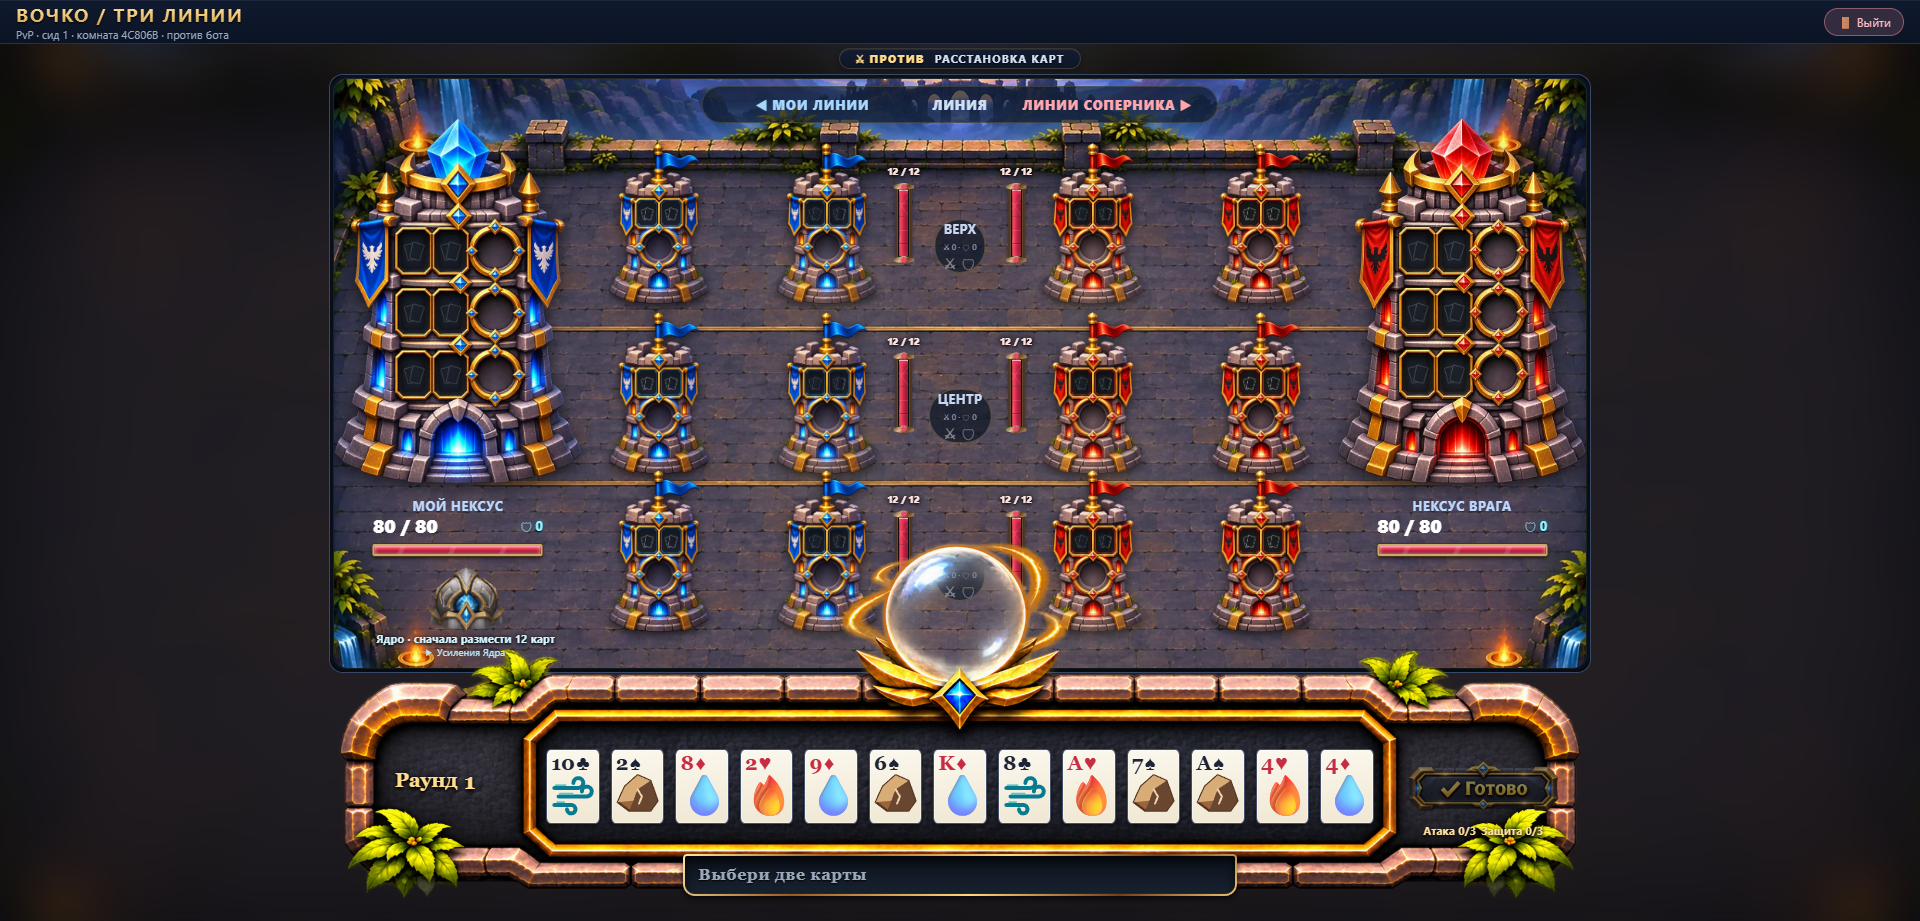
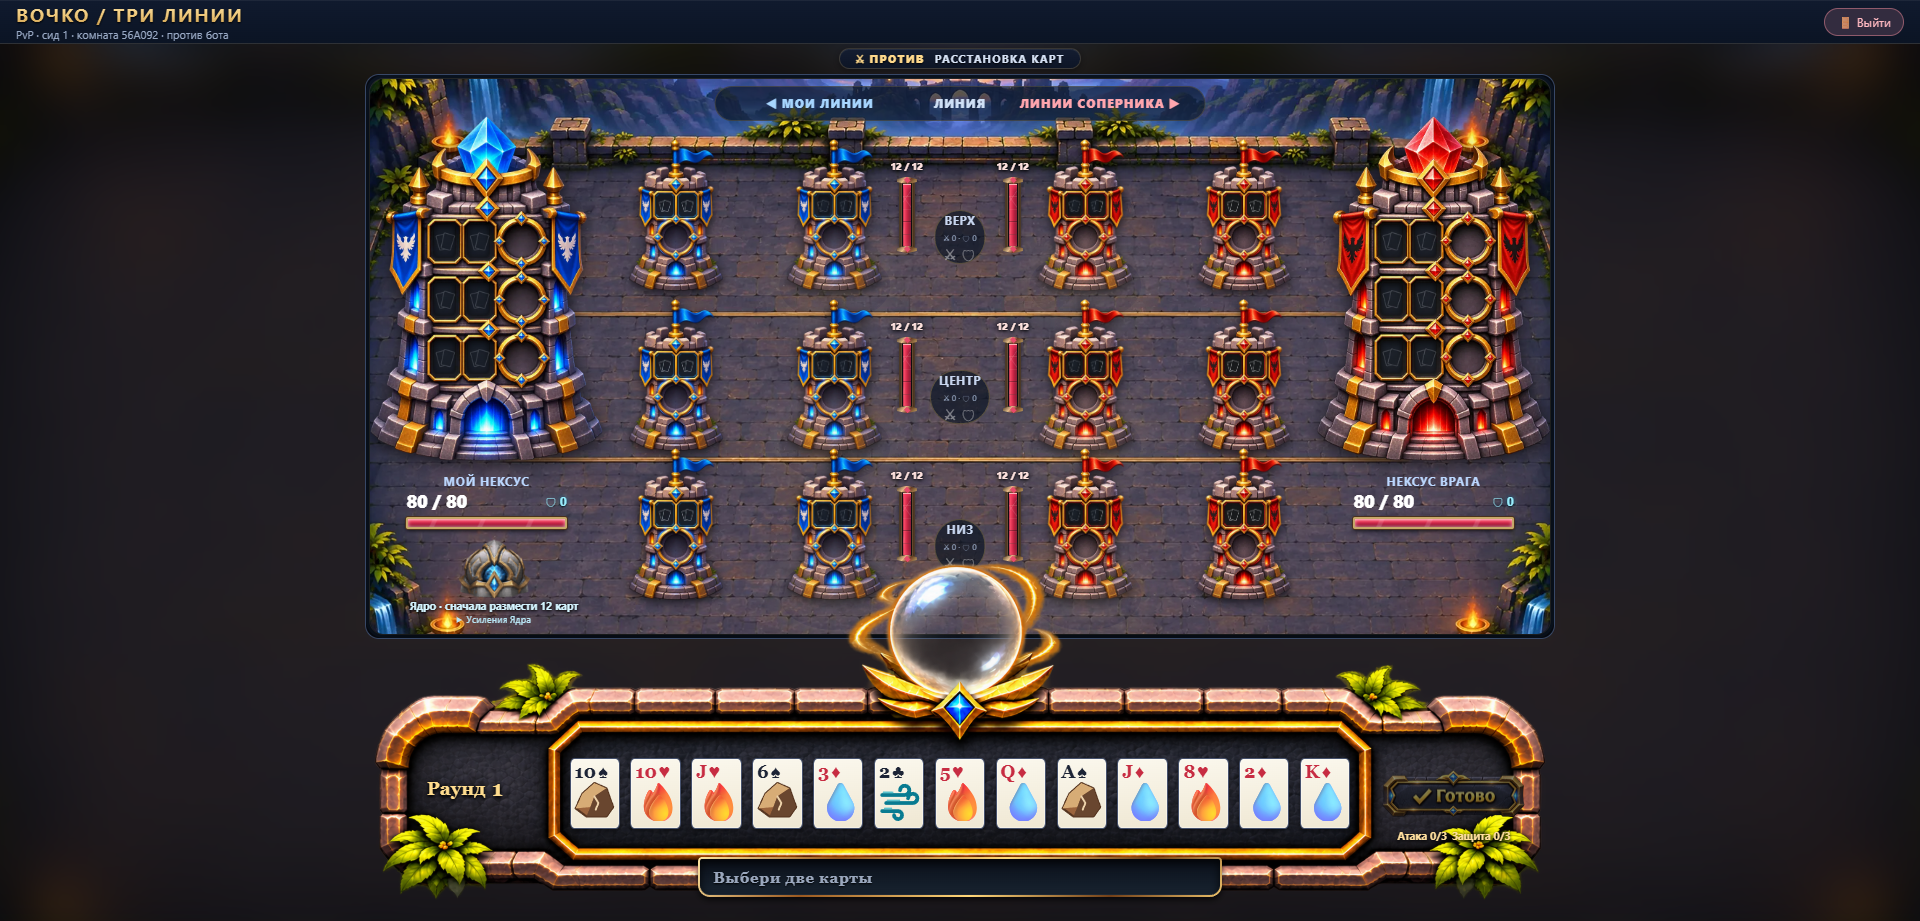
fix(ui): reduce panel overlap -14% -> -10% so the sphere stops covering the bottom lane
After the cinematic crop the panel art overlapped ~22% of the arena height
and the preview sphere covered the bottom lane badge/meters. Overlap now
10% of game width (sphere crowns the edge, badge at 84% height stays clear);
game width formula .668333 -> .708333. npm test 374/374, test:local,
test:browser, browser-nexus-core green.

diff --git a/src/ui/card-panel/card-panel.css b/src/ui/card-panel/card-panel.css
@@ -3,7 +3,7 @@
 .arena-and-hand > #lanes{width:100%;height:auto;aspect-ratio:1600/760;flex:none;container-type:inline-size}
 .arena-and-hand .arena-scene{width:100%;height:auto;aspect-ratio:1600/760}
 
-.card-panel{position:relative;isolation:isolate;z-index:10;flex:none;width:100%;aspect-ratio:2172/724;container-type:inline-size;margin-top:calc(-14cqw - 5px);pointer-events:none}
+.card-panel{position:relative;isolation:isolate;z-index:10;flex:none;width:100%;aspect-ratio:2172/724;container-type:inline-size;margin-top:calc(-10cqw - 5px);pointer-events:none}
 /* Исходный PNG имеет прозрачную сферу: эффект светится сквозь стекло. */
 .panel-art{position:absolute;inset:0;z-index:2;width:100%;height:100%;pointer-events:none;user-select:none}
 .panel-zone{position:absolute;left:var(--zone-x);top:var(--zone-y);width:var(--zone-w);height:var(--zone-h);z-index:3}
@@ -90,13 +90,13 @@
 .match-screen>header{flex:0 0 44px}
 .match-screen>.wrap{flex:1;width:100%;max-width:none;height:auto;min-height:0;margin:0;padding:4px 6px;overflow:hidden}
 .match-screen .score{flex:none}
-.match-screen .arena-and-hand{--game-width:min(100cqw,calc(100cqh / .668333));container-type:size;flex:1;min-height:0;max-width:none;justify-content:center}
+.match-screen .arena-and-hand{--game-width:min(100cqw,calc(100cqh / .708333));container-type:size;flex:1;min-height:0;max-width:none;justify-content:center}
 .match-screen .arena-and-hand>#lanes,.match-screen .arena-and-hand>.card-panel{width:var(--game-width)}
-.match-screen .card-panel{margin-top:calc(var(--game-width) * -.14 - 5px)}
+.match-screen .card-panel{margin-top:calc(var(--game-width) * -.1 - 5px)}
 .panel-message{position:absolute;z-index:20;left:20%;bottom:100%;width:60%;padding:6px 10px;border:1px solid #ac8a4e;border-radius:8px;background:#101927ed;color:#ffe1a2;text-align:center;font-size:12px;line-height:1.4;pointer-events:none}
 .panel-message:empty{display:none}
 @media(max-width:640px){
- .match-screen .arena-and-hand{--game-width:min(100cqw,calc((100cqh - 48px) / .668333))}
+ .match-screen .arena-and-hand{--game-width:min(100cqw,calc((100cqh - 48px) / .708333))}
  .match-screen>header{flex-basis:36px}
  .panel-message{left:8%;width:84%;font-size:11px}
 }

diff --git a/src/ui/nexus-core/nexus-core.css b/src/ui/nexus-core/nexus-core.css
@@ -16,5 +16,5 @@
 .arena-scene .core-eligible{filter:drop-shadow(0 0 4px var(--core-color))}
 .core-battle-badge,.core-own-badge{white-space:nowrap;color:#c6f2ff;font-size:clamp(8px,.9cqw,14px);font-weight:700;text-shadow:0 1px 3px #000;margin-top:3px;z-index:10}
 @keyframes core-wait{50%{opacity:.4;box-shadow:0 0 13px #57cfff88}}@keyframes core-absorb{0%{opacity:1;translate:0 35px;scale:1}80%{opacity:1}100%{opacity:0;translate:0 -5px;scale:.05}}@keyframes core-flash{35%{filter:drop-shadow(0 0 13px var(--core-color)) brightness(1.6)}}
-@media(max-width:560px){.core-console{position:relative;left:auto;bottom:auto;width:180px;height:110px;flex:none;gap:2px;justify-content:center}.core-drop{height:70px;min-height:44px;flex:none}.core-state{font-size:11px}.core-details{font-size:11px}.core-preview{font-size:12px;padding:9px}.match-screen .arena-and-hand:has(>.core-console){--game-width:min(100cqw,calc((100cqh - 163px) / .668333))}}
+@media(max-width:560px){.core-console{position:relative;left:auto;bottom:auto;width:180px;height:110px;flex:none;gap:2px;justify-content:center}.core-drop{height:70px;min-height:44px;flex:none}.core-state{font-size:11px}.core-details{font-size:11px}.core-preview{font-size:12px;padding:9px}.match-screen .arena-and-hand:has(>.core-console){--game-width:min(100cqw,calc((100cqh - 163px) / .708333))}}
 @media(prefers-reduced-motion:reduce){.core-console *{animation:none!important;transition:none!important}}
